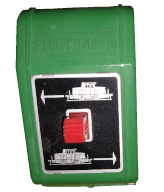
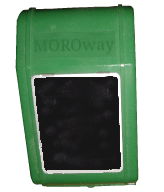
7.4.0-beta11

diff --git a/app/src/js/scripting.js b/app/src/js/scripting.js
@@ -1584,6 +1584,19 @@ function drawObjects() {
         context.translate(classicUI.trainSwitch.x+classicUI.trainSwitch.width/2, classicUI.trainSwitch.y+classicUI.trainSwitch.height/2);
         context.rotate(classicUI.trainSwitch.angle);
         drawImage(pics[classicUI.trainSwitch.src], -classicUI.trainSwitch.width/2, -classicUI.trainSwitch.height/2, classicUI.trainSwitch.width, classicUI.trainSwitch.height);
+        context.save();
+        var alpha = 0;
+        var alphaFramesMax = 55;
+        if (trainParams.selectedLastChange != undefined && frameNo - trainParams.selectedLastChange < alphaFramesMax) {
+            alpha = 1;
+        } else if (trainParams.selectedLastChange != undefined && frameNo - alphaFramesMax - trainParams.selectedLastChange < alphaFramesMax) {
+            alpha = 1 - ((frameNo - alphaFramesMax - trainParams.selectedLastChange)/alphaFramesMax);
+        }
+        context.globalAlpha = 1 - alpha;
+        drawImage(pics[classicUI.trainSwitch.srcFill], -classicUI.trainSwitch.width/2, -classicUI.trainSwitch.height/2, classicUI.trainSwitch.width, classicUI.trainSwitch.height);
+        context.globalAlpha = alpha;
+        drawImage(pics[trains[trainParams.selected].trainSwitchSrc], -classicUI.trainSwitch.width/2, -classicUI.trainSwitch.height/2, classicUI.trainSwitch.width, classicUI.trainSwitch.height);
+        context.restore();
         context.beginPath();
         context.rect(-classicUI.trainSwitch.width/2, -classicUI.trainSwitch.height/2, classicUI.trainSwitch.width, classicUI.trainSwitch.height);
         if (wasInSwitchPath || (context.isPointInPath(hardware.mouse.wheelX, hardware.mouse.wheelY) && hardware.mouse.wheelScrollY !== 0 && hardware.mouse.wheelScrolls) || context.isPointInPath(hardware.mouse.moveX, hardware.mouse.moveY)) {
@@ -1603,6 +1616,7 @@ function drawObjects() {
                 } else if (trainParams.selected < 0) {
                     trainParams.selected = trains.length-1;
                 }
+                trainParams.selectedLastChange = frameNo;
                 if (!classicUI.trainSwitch.selectedTrainDisplay.visible) {
                     notify("#canvas-notifier", formatJSString(getString("appScreenTrainSelected", "."), getString(["appScreenTrainNames",trainParams.selected])), NOTIFICATION_PRIO_HIGH, 1250, null, null, client.height, NOTIFICATION_CHANNEL_CLASSIC_UI_TRAIN_SWITCH);
                 }
@@ -2553,7 +2567,7 @@ var doubleClickWaitTime = doubleClickTime*2;
 var konamistate = 0;
 var konamiTimeOut;
 
-var pics = [{id: 0, extension: "png"},{id: 1, extension: "png"},{id: 2, extension: "png"},{id: 3, extension: "png"},{id: 4, extension: "png"},{id: 5, extension: "png"},{id: 6, extension: "png"},{id: 7, extension: "png"},{id: 8, extension: "png"},{id: 9, extension: "jpg"},{id: 10, extension: "png"},{id: 11, extension: "png"},{id: 12, extension: "png"},{id: 13, extension: "png"},{id: 14, extension: "png"},{id: 15, extension: "png"},{id: 16, extension: "png"},{id: 17, extension: "png"},{id: 18, extension: "png"},{id: 19, extension: "png"},{id: 20, extension: "png"},{id: 21, extension: "png"},{id: 22, extension: "png"},{id: 23, extension: "png"},{id: 24, extension: "png"}];
+var pics = [{id: 0, extension: "png"},{id: 1, extension: "png"},{id: 2, extension: "png"},{id: 3, extension: "png"},{id: 4, extension: "png"},{id: 5, extension: "png"},{id: 6, extension: "png"},{id: 7, extension: "png"},{id: 8, extension: "png"},{id: 9, extension: "jpg"},{id: 10, extension: "png"},{id: 11, extension: "png"},{id: 12, extension: "png"},{id: 13, extension: "png"},{id: 14, extension: "png"},{id: 15, extension: "png"},{id: 16, extension: "png"},{id: 17, extension: "png"},{id: 18, extension: "png"},{id: 19, extension: "png"},{id: 20, extension: "png"},{id: 21, extension: "png"},{id: 22, extension: "png"},{id: 23, extension: "png"},{id: 24, extension: "png"},{id: 25, extension: "png"},{id: 26, extension: "png"},{id: 27, extension: "png"},{id: 28, extension: "png"},{id: 29, extension: "png"},{id: 30, extension: "png"},{id: 31, extension: "png"}];
 
 var background = {src: 9, secondLayer: 10};
 var oldbackground;
@@ -2572,7 +2586,7 @@ var carParams = {init: true, wayNo: 7};
 
 var taxOffice = {params: {number: 45, frameNo: 6, frameProbability: 0.6, fire: {x: 0.07, y: 0.06, size: 0.000833, color:{red: {red: 200, green: 0, blue: 0, alpha: 0.4}, yellow: {red: 255, green: 160, blue: 0, alpha: 1}, probability: 0.8}}, smoke: {x: 0.07, y: 0.06, size: 0.02, color: {red: 130, green: 120, blue: 130, alpha: 0.3}}, bluelights: {frameNo: 16, cars: [{frameNo: 0, x: [-0.0105, -0.0026], y: [0.175, 0.0045], size: 0.0008},{frameNo: 3, x: [0.0275, -0.00275], y: [0.1472, 0.0092], size: 0.001},{frameNo: 5, x: [0.0568, 0.0008], y: [0.177, 0.0148], size: 0.001}]}}};
 
-var classicUI = {trainSwitch: {src: 11, selectedTrainDisplay: {}}, transformer: {src: 12, onSrc: 13, readySrc: 23, angle:(Math.PI/5),input:{src:14,angle:0,minAngle:minTrainSpeed,maxAngle:1.5*Math.PI},directionInput:{srcStandardDirection: 24, srcNotStandardDirection: 15}}, switches: {showDuration: 11, showDurationFade: 33, showDurationEnd: 44}};
+var classicUI = {trainSwitch: {src: 11, srcFill: 31, selectedTrainDisplay: {}}, transformer: {src: 12, onSrc: 13, readySrc: 23, angle:(Math.PI/5),input:{src:14,angle:0,minAngle:minTrainSpeed,maxAngle:1.5*Math.PI},directionInput:{srcStandardDirection: 24, srcNotStandardDirection: 15}}, switches: {showDuration: 11, showDurationFade: 33, showDurationEnd: 44}};
 
 var controlCenter = {showCarCenter: null, fontFamily: "sans-serif"};
 
@@ -2580,7 +2594,7 @@ var hardware = {mouse: {moveX:0, moveY:0,downX:0, downY:0, downTime: 0,upX:0, up
 var client = {devicePixelRatio: 1,realScaleMax:6,realScaleMin:1.2};
 var optMenu = {};
 
-var onlineGame = {animateInterval: 40, syncInterval: 10000, excludeFromSync: {"t": ["src", "assetFlip", "fac", "speedFac", "accelerationSpeedStartFac", "accelerationSpeedFac", "lastDirectionChange", "bogieDistance", "width", "height", "speed", "crash", "flickerFacBack", "flickerFacBackOffset", "flickerFacFront", "flickerFacFrontOffset", "margin", "cars"], "tc": ["src", "assetFlip", "fac", "bogieDistance", "width", "height", "konamiUseTrainIcon"]}, chatSticker: 7, resized: false};
+var onlineGame = {animateInterval: 40, syncInterval: 10000, excludeFromSync: {"t": ["src", "trainSwitchSrc", "assetFlip", "fac", "speedFac", "accelerationSpeedStartFac", "accelerationSpeedFac", "lastDirectionChange", "bogieDistance", "width", "height", "speed", "crash", "flickerFacBack", "flickerFacBackOffset", "flickerFacFront", "flickerFacFrontOffset", "margin", "cars"], "tc": ["src", "assetFlip", "fac", "bogieDistance", "width", "height", "konamiUseTrainIcon"]}, chatSticker: 7, resized: false};
 var onlineConnection = {serverURI: getServerLink(PROTOCOL_WS) + "/multiplay"};
 
 var resizeTimeout;

diff --git a/app/src/js/scripting_worker_animate.js b/app/src/js/scripting_worker_animate.js
@@ -1248,12 +1248,12 @@ var animateInterval = 22;
 
 var rotationPoints = {inner:{narrow:{x:[],y:[]}, wide:{x:[],y:[]}, sidings:{first: {x:[],y:[]}, firstS1: {x:[],y:[]}, firstS2: {x:[],y:[]}, second: {x:[],y:[]}, secondS1: {x:[],y:[]}, secondS2: {x:[],y:[]}, third: {x:[],y:[]}, thirdS1: {x:[],y:[]}, thirdS2: {x:[],y:[]}}},outer:{narrow:{x:[],y:[]}, altState3:{x:[],y:[]} },inner2outer:{left:{x:[],y:[]}, right:{x:[],y:[]}}};
 var trains =  [
-    {src: 1, fac: 0.051, speedFac: (1/500), accelerationSpeedStartFac: 0.02, accelerationSpeedFac: 1.008, circle: rotationPoints.inner.wide, circleFamily: rotationPoints.inner, standardDirectionStartValue: true, bogieDistance: 0.15, state: 1, flickerFacFront: 2.5, cars:[{src: 2, fac: 0.060, bogieDistance: 0.15},{src: 2, fac: 0.060, bogieDistance: 0.15},{src: 2, fac: 0.060, bogieDistance: 0.15},{src: 3, fac: 0.044, bogieDistance: 0.15}]},
-    {src: 4,fac: 0.093, speedFac: (1/250), accelerationSpeedStartFac: 0.035, accelerationSpeedFac: 1.013, circle: rotationPoints.outer.narrow, circleFamily: rotationPoints.outer, standardDirectionStartValue: true, bogieDistance: 0.15, state: 3, flickerFacFront: 2.1, flickerFacBack: 2.1, cars:[{src: 5, fac: 0.11, bogieDistance: 0.15},{src: 5, fac: 0.11, bogieDistance: 0.15, assetFlip: true}, {src: 4, fac: 0.093, bogieDistance: 0.15, assetFlip: true,konamiUseTrainIcon: true}]},
-    {src: 8, fac: 0.068, speedFac: (1/375), accelerationSpeedStartFac: 0.04, accelerationSpeedFac: 1.01, circle: rotationPoints.inner.wide, circleFamily: rotationPoints.inner, circleStartPosDiv: 0.8, standardDirectionStartValue: true, bogieDistance: 0.15, state: 121, flickerFacFront: 2.4, flickerFacBack: 2.3, flickerFacFrontOffset: 2.82, flickerFacBackOffset: 2.75, cars:[]},
-    {src: 7,fac: 0.1, speedFac: (1/250), accelerationSpeedStartFac: 0.034, accelerationSpeedFac: 1.014, circle: rotationPoints.inner.narrow, circleFamily: rotationPoints.inner, circleStartPosDiv: 0.865, standardDirectionStartValue: true, bogieDistance: 0.15, state: 111, margin: 500, flickerFacFront: 2.1, flickerFacBack: 2.1, cars:[{src: 6, fac: 0.1, bogieDistance: 0.15},{src: 6, fac: 0.1, bogieDistance: 0.15, assetFlip: true}, {src: 7, fac: 0.1, bogieDistance: 0.15, assetFlip: true,konamiUseTrainIcon: true}]},
-    {src: 20,fac: 0.0534, speedFac: (1/410), accelerationSpeedStartFac: 0.034, accelerationSpeedFac: 1.03, circle: rotationPoints.inner.narrow, circleFamily: rotationPoints.inner, circleStartPosDiv: 0.65, standardDirectionStartValue: true, bogieDistance: 0.15, state: 121, margin: 500, flickerFacFront: 2.1, flickerFacBack: 2.1, cars:[{src: 21, fac: 0.043, bogieDistance: 0.15},{src: 22, fac: 0.055, bogieDistance: 0.15}]},
-    {src: 18,fac: 0.093, speedFac: (1/360), accelerationSpeedStartFac: 0.034, accelerationSpeedFac: 1.025, circle: rotationPoints.inner.narrow, circleFamily: rotationPoints.inner, circleStartPosDiv: 0.99, standardDirectionStartValue: true, bogieDistance: 0.16, state: 131, margin: 500, cars:[{src: 19, fac: 0.08, bogieDistance: 0.15},{src: 18, fac: 0.093, bogieDistance: 0.19, assetFlip: true,konamiUseTrainIcon: true}]}
+    {src: 1, fac: 0.051, speedFac: (1/500), accelerationSpeedStartFac: 0.02, accelerationSpeedFac: 1.008, circle: rotationPoints.inner.wide, circleFamily: rotationPoints.inner, standardDirectionStartValue: true, bogieDistance: 0.15, state: 1, flickerFacFront: 2.5, trainSwitchSrc: 25, cars:[{src: 2, fac: 0.060, bogieDistance: 0.15},{src: 2, fac: 0.060, bogieDistance: 0.15},{src: 2, fac: 0.060, bogieDistance: 0.15},{src: 3, fac: 0.044, bogieDistance: 0.15}]},
+    {src: 4,fac: 0.093, speedFac: (1/250), accelerationSpeedStartFac: 0.035, accelerationSpeedFac: 1.013, circle: rotationPoints.outer.narrow, circleFamily: rotationPoints.outer, standardDirectionStartValue: true, bogieDistance: 0.15, state: 3, flickerFacFront: 2.1, flickerFacBack: 2.1, trainSwitchSrc: 26, cars:[{src: 5, fac: 0.11, bogieDistance: 0.15},{src: 5, fac: 0.11, bogieDistance: 0.15, assetFlip: true}, {src: 4, fac: 0.093, bogieDistance: 0.15, assetFlip: true,konamiUseTrainIcon: true}]},
+    {src: 8, fac: 0.068, speedFac: (1/375), accelerationSpeedStartFac: 0.04, accelerationSpeedFac: 1.01, circle: rotationPoints.inner.wide, circleFamily: rotationPoints.inner, circleStartPosDiv: 0.8, standardDirectionStartValue: true, bogieDistance: 0.15, state: 121, flickerFacFront: 2.4, flickerFacBack: 2.3, flickerFacFrontOffset: 2.82, flickerFacBackOffset: 2.75, trainSwitchSrc: 27, cars:[]},
+    {src: 7,fac: 0.1, speedFac: (1/250), accelerationSpeedStartFac: 0.034, accelerationSpeedFac: 1.014, circle: rotationPoints.inner.narrow, circleFamily: rotationPoints.inner, circleStartPosDiv: 0.865, standardDirectionStartValue: true, bogieDistance: 0.15, state: 111, margin: 500, flickerFacFront: 2.1, flickerFacBack: 2.1, trainSwitchSrc: 28, cars:[{src: 6, fac: 0.1, bogieDistance: 0.15},{src: 6, fac: 0.1, bogieDistance: 0.15, assetFlip: true}, {src: 7, fac: 0.1, bogieDistance: 0.15, assetFlip: true,konamiUseTrainIcon: true}]},
+    {src: 20,fac: 0.0534, speedFac: (1/410), accelerationSpeedStartFac: 0.034, accelerationSpeedFac: 1.03, circle: rotationPoints.inner.narrow, circleFamily: rotationPoints.inner, circleStartPosDiv: 0.65, standardDirectionStartValue: true, bogieDistance: 0.15, state: 121, margin: 500, flickerFacFront: 2.1, flickerFacBack: 2.1, trainSwitchSrc: 29, cars:[{src: 21, fac: 0.043, bogieDistance: 0.15},{src: 22, fac: 0.055, bogieDistance: 0.15}]},
+    {src: 18,fac: 0.093, speedFac: (1/360), accelerationSpeedStartFac: 0.034, accelerationSpeedFac: 1.025, circle: rotationPoints.inner.narrow, circleFamily: rotationPoints.inner, circleStartPosDiv: 0.99, standardDirectionStartValue: true, bogieDistance: 0.16, state: 131, margin: 500, trainSwitchSrc: 30, cars:[{src: 19, fac: 0.08, bogieDistance: 0.15},{src: 18, fac: 0.093, bogieDistance: 0.19, assetFlip: true,konamiUseTrainIcon: true}]}
 ];
 var trainParams = {selected: Math.floor(Math.random()*trains.length), margin: 25, innerCollisionFac: 0.5};
 var trainPics;
@@ -1321,6 +1321,13 @@ onmessage = function(message) {
         trainPics = message.data.trainPics;
         defineTrainParams();
         if(typeof message.data.savedTrains == "object") {
+            /* UPDATE: v7.4.0 */
+            for(var t = 0; t < trains.length && t < message.data.savedTrains.length; t++) {
+                if(message.data.savedTrains[t].trainSwitchSrc == undefined) {
+                    message.data.savedTrains[t].trainSwitchSrc = trains[t].trainSwitchSrc;
+                }
+            }
+            /* END UPDATE: v7.4.0 */
             trains = JSON.parse(JSON.stringify(message.data.savedTrains));
             for(var t = 0; t < trains.length; t++) {
                 if(message.data.savedTrains[t].circleFamily != null) {
